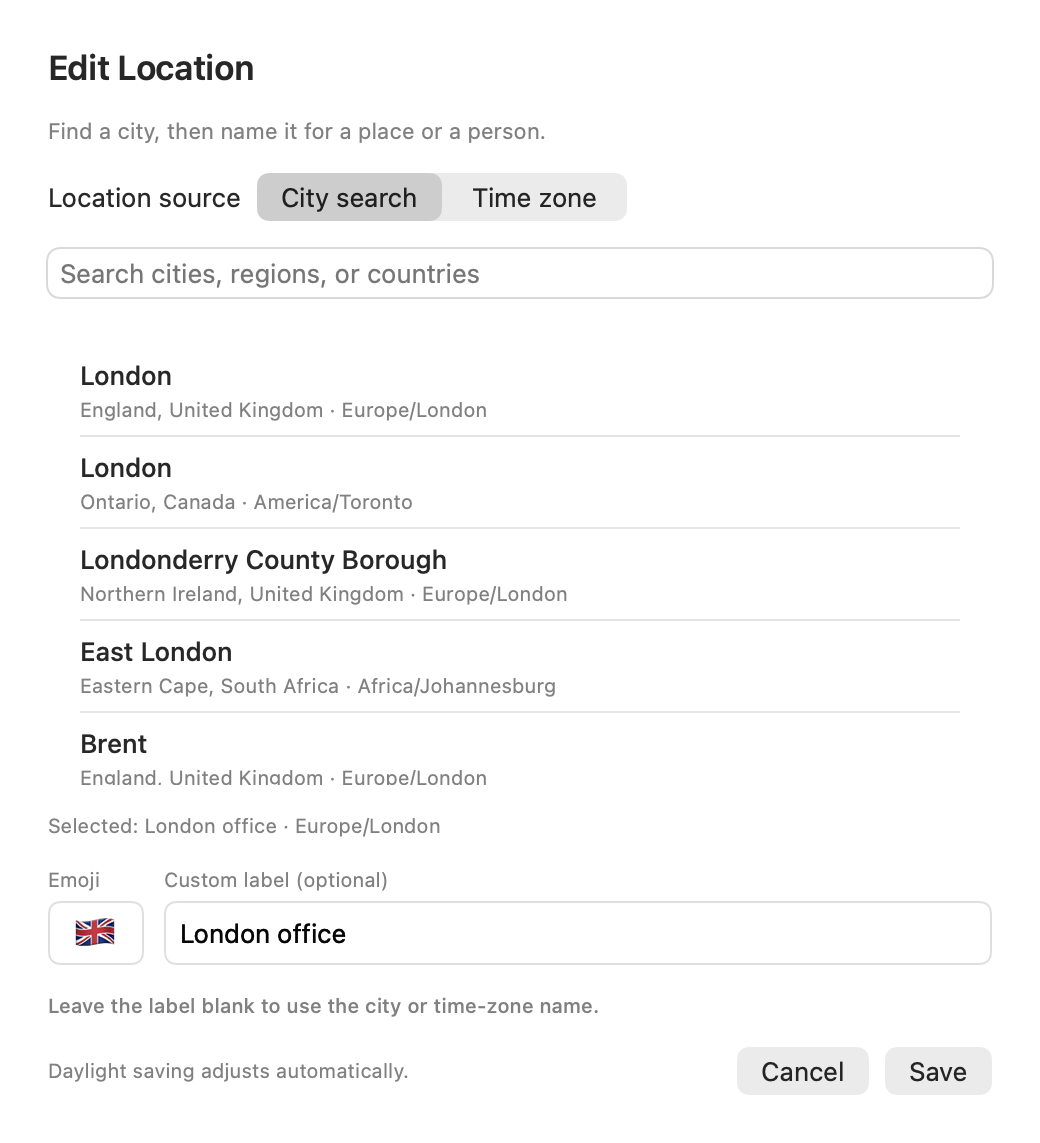
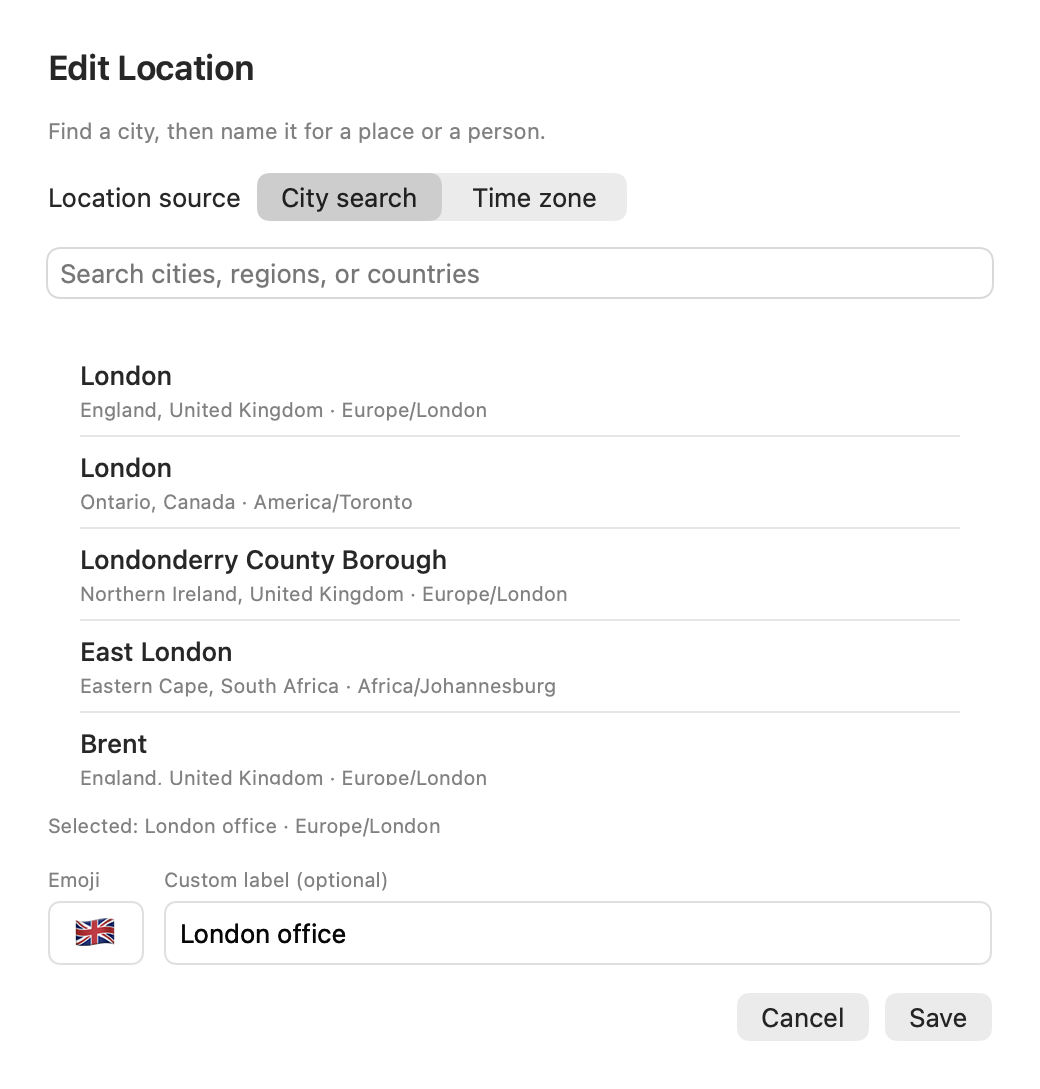
Simplify settings and add About with versioned builds

diff --git a/Horologium/Views/SettingsView.swift b/Horologium/Views/SettingsView.swift
@@ -14,7 +14,7 @@ struct SettingsView: View {
     @State private var loginEnabled = SMAppService.mainApp.status == .enabled
     @State private var loginError: String?
 
-    enum Tab: String, CaseIterable { case general, menuBar, calendar, layout, locations }
+    enum Tab: String, CaseIterable { case general, menuBar, calendar, layout, locations, about }
     @ObservedObject private var navigation: SettingsNavigation
     @State private var selectedSection: DropdownSection?
 
@@ -25,16 +25,13 @@ struct SettingsView: View {
 
     var body: some View {
         VStack(alignment: .leading, spacing: 16) {
-            HStack(spacing: 12) {
-                Image(nsImage: NSImage(contentsOf: Bundle.main.url(forResource: "Logo", withExtension: "png")!)!).resizable().scaledToFit().frame(width: 40, height: 40)
-                Text("Horologium").font(.title2.weight(.semibold))
-            }
             Picker("Settings category", selection: $navigation.tab) {
                 Text("General").tag(Tab.general)
                 Text("Menu Bar").tag(Tab.menuBar)
                 Text("Calendar").tag(Tab.calendar)
                 Text("Layout").tag(Tab.layout)
                 Text("Locations").tag(Tab.locations)
+                Text("About").tag(Tab.about)
             }.pickerStyle(.segmented).labelsHidden()
             Group {
                 switch navigation.tab {
@@ -43,14 +40,10 @@ struct SettingsView: View {
                 case .calendar: calendar
                 case .layout: layout
                 case .locations: locations
+                case .about: about
                 }
             }.frame(maxWidth: .infinity, maxHeight: .infinity)
             if let warning = store.storageWarning { Text(warning).font(.caption).foregroundStyle(.orange) }
-            HStack {
-                Text("Version 1.0").font(.caption).foregroundStyle(.secondary)
-                Spacer()
-                Link("City data: GeoNames", destination: URL(string: "https://www.geonames.org/")!).font(.caption)
-            }
         }
         .padding(24).frame(width: 540, height: 600)
         .background(Color(nsColor: .windowBackgroundColor))
@@ -123,8 +116,7 @@ struct SettingsView: View {
                 Button("Allow in Login Items Settings…") { SMAppService.openSystemSettingsLoginItems() }
             }
             if let loginError { Text(loginError).foregroundStyle(.red).font(.caption) }
-            Text("System follows your Mac’s clock and appearance preferences.").font(.caption).foregroundStyle(.secondary)
-        }.formStyle(.grouped)
+        }.formStyle(.grouped).scrollContentBackground(.hidden)
     }
 
     private var menuBar: some View {
@@ -143,7 +135,7 @@ struct SettingsView: View {
                 Text(store.menuTitle.isEmpty ? "Clock icon" : store.menuTitle)
                     .font(.system(.body, design: .monospaced)).accessibilityLabel("Menu bar preview")
             } header: { Text("Preview") }
-        }.formStyle(.grouped).toggleStyle(.switch)
+        }.formStyle(.grouped).scrollContentBackground(.hidden).toggleStyle(.switch)
     }
 
     private var calendar: some View {
@@ -154,15 +146,16 @@ struct SettingsView: View {
             Picker("Time travel interval", selection: $store.preferences.travelInterval) {
                 ForEach(TravelInterval.allCases) { Text($0.title).tag($0) }
             }
-            Text("System uses your Mac’s first day of the week. Time travel snaps to the chosen interval without tick marks.")
-                .font(.caption).foregroundStyle(.secondary)
-        }.formStyle(.grouped)
+        }.formStyle(.grouped).scrollContentBackground(.hidden)
     }
 
     private var layout: some View {
         VStack(alignment: .leading, spacing: 14) {
-            Text("Dropdown section order").font(.headline)
-            Text("Drag sections, or select one and use the arrows.").font(.caption).foregroundStyle(.secondary)
+            HStack {
+                Text("Dropdown section order").font(.headline)
+                Spacer()
+                Text("Drag to reorder").font(.caption).foregroundStyle(.secondary)
+            }
             List(selection: $selectedSection) {
                 ForEach(store.preferences.sectionOrder) { section in
                     Text(section.title).padding(.vertical, 8).tag(section)
@@ -179,6 +172,23 @@ struct SettingsView: View {
             }
             Spacer()
         }.padding(16)
+    }
+
+    private var about: some View {
+        VStack(spacing: 16) {
+            Spacer()
+            Image(nsImage: NSImage(contentsOf: Bundle.main.url(forResource: "Logo", withExtension: "png")!)!)
+                .resizable().scaledToFit().frame(width: 110, height: 110)
+            Text("Horologium").font(.largeTitle.weight(.semibold))
+            Text("Version \(Bundle.main.object(forInfoDictionaryKey: "CFBundleShortVersionString") as? String ?? "—") (build \(Bundle.main.object(forInfoDictionaryKey: "CFBundleVersion") as? String ?? "—"))")
+                .font(.subheadline).foregroundStyle(.secondary)
+            Text("Ardens").foregroundStyle(.secondary)
+            Link("City data by GeoNames", destination: URL(string: "https://www.geonames.org/")!)
+            Link("Creative Commons Attribution 4.0", destination: URL(string: "https://creativecommons.org/licenses/by/4.0/")!)
+                .font(.caption).foregroundStyle(.secondary)
+            Link("GitHub repository", destination: URL(string: "https://github.com/hirechester/horologium")!)
+            Spacer()
+        }.frame(maxWidth: .infinity).padding(16)
     }
 
     private var sectionIndex: Int? { store.preferences.sectionOrder.firstIndex { $0 == selectedSection } }

diff --git a/HorologiumTests/VisualPreviewTests.swift b/HorologiumTests/VisualPreviewTests.swift
@@ -19,6 +19,11 @@ final class VisualPreviewTests: XCTestCase {
         try render(PopoverView(store: store, openLocations: {}), name: "01-calendar-and-world-clocks", width: 352)
         store.travel(step: 32)
         try render(PopoverView(store: store, openLocations: {}), name: "02-time-travel", width: 352)
+        try render(SettingsView(store: store, initialTab: .about), name: "13-about", width: 540)
+        try render(SettingsView(store: store, initialTab: .about), name: "14-about-dark", width: 540, dark: true)
+        try render(SettingsView(store: store), name: "15-general-dark", width: 540, dark: true)
+        try render(SettingsView(store: store, initialTab: .menuBar), name: "16-menu-bar-dark", width: 540, dark: true)
+        try render(SettingsView(store: store, initialTab: .calendar), name: "17-calendar-dark", width: 540, dark: true)
         try render(SettingsView(store: store), name: "03-settings", width: 540)
         try render(SettingsView(store: store, initialTab: .menuBar), name: "08-menu-bar-settings", width: 540)
         try render(SettingsView(store: store, initialTab: .calendar), name: "09-calendar-settings", width: 540)

diff --git a/Horologium/Views/LocationEditor.swift b/Horologium/Views/LocationEditor.swift
@@ -72,8 +72,6 @@ struct LocationEditor: View {
             if let chosen {
                 Text("Selected: \(chosen.label) · \(chosen.timeZoneDisplayName)")
                     .font(.caption).foregroundStyle(.secondary).lineLimit(1)
-            } else {
-                Text("Choose a result above.").font(.caption).foregroundStyle(.secondary)
             }
             HStack(alignment: .top, spacing: 10) {
                 VStack(alignment: .leading, spacing: 4) {
@@ -96,10 +94,7 @@ struct LocationEditor: View {
                         .accessibilityLabel("Custom location label")
                 }
             }
-            Text("Leave the label blank to use the city or time-zone name.")
-                .font(.caption2).foregroundStyle(.secondary)
             HStack {
-                Text("Daylight saving adjusts automatically.").font(.caption).foregroundStyle(.secondary)
                 Spacer()
                 Button("Cancel") { dismiss() }.keyboardShortcut(.cancelAction)
                 Button(existing == nil ? "Add" : "Save") { save() }

diff --git a/Horologium/Views/EmojiPicker.swift b/Horologium/Views/EmojiPicker.swift
@@ -50,8 +50,6 @@ struct EmojiPicker: View {
                 }
                 .id(category + query)
                 .overlay { if matches.isEmpty { ContentUnavailableView.search(text: query) } }
-                Text("\(matches.count) emoji · Country flags appear first")
-                    .font(.caption2).foregroundStyle(.secondary)
             } else if let error {
                 ContentUnavailableView("Emoji unavailable", systemImage: "exclamationmark.triangle", description: Text(error))
             } else {

diff --git a/scripts/generate-project.py b/scripts/generate-project.py
@@ -4,6 +4,7 @@ import hashlib
 import json
 from pathlib import Path
 root = Path(__file__).resolve().parents[1]
+version = json.loads((root / 'Version.json').read_text())
 objects = {}
 def ident(key): return hashlib.sha1(key.encode()).hexdigest()[:24].upper()
 def add(key, value):
@@ -42,7 +43,7 @@ def configs(key, settings):
         cs.append(add(key+name, obj('XCBuildConfiguration', buildSettings=build, name=name)))
     return add(key+'configs', obj('XCConfigurationList', buildConfigurations=cs, defaultConfigurationIsVisible=0, defaultConfigurationName='Release'))
 project_config = configs('project', {'SDKROOT':'macosx','MACOSX_DEPLOYMENT_TARGET':'26.0','ARCHS':'arm64','SWIFT_VERSION':'6.0','CLANG_ENABLE_MODULES':'YES','ENABLE_TESTABILITY':'YES','CODE_SIGN_STYLE':'Automatic'})
-app_config = configs('app', {'PRODUCT_NAME':'Horologium','PRODUCT_BUNDLE_IDENTIFIER':'app.ardens.horologium','INFOPLIST_FILE':'Horologium/Info.plist','MARKETING_VERSION':'1.0','CURRENT_PROJECT_VERSION':'1','ENABLE_HARDENED_RUNTIME':'YES','LD_RUNPATH_SEARCH_PATHS':'$(inherited) @executable_path/../Frameworks'})
+app_config = configs('app', {'PRODUCT_NAME':'Horologium','PRODUCT_BUNDLE_IDENTIFIER':'app.ardens.horologium','INFOPLIST_FILE':'Horologium/Info.plist','MARKETING_VERSION':version['version'],'CURRENT_PROJECT_VERSION':str(version['build']),'ENABLE_HARDENED_RUNTIME':'YES','LD_RUNPATH_SEARCH_PATHS':'$(inherited) @executable_path/../Frameworks'})
 test_config = configs('test', {'PRODUCT_NAME':'HorologiumTests','PRODUCT_BUNDLE_IDENTIFIER':'app.ardens.horologium.tests','GENERATE_INFOPLIST_FILE':'YES','TEST_HOST':'$(BUILT_PRODUCTS_DIR)/Horologium.app/Contents/MacOS/Horologium','BUNDLE_LOADER':'$(TEST_HOST)','LD_RUNPATH_SEARCH_PATHS':'$(inherited) @executable_path/../Frameworks @loader_path/../Frameworks'})
 app_target = add('app-target', obj('PBXNativeTarget', buildConfigurationList=app_config, buildPhases=app_phases, buildRules=[], dependencies=[], name='Horologium', productName='Horologium', productReference=app_product, productType='com.apple.product-type.application'))
 proxy = add('proxy', obj('PBXContainerItemProxy', containerPortal=ident('project'), proxyType=1, remoteGlobalIDString=app_target, remoteInfo='Horologium'))

diff --git a/scripts/bump-version.py b/scripts/bump-version.py
@@ -1,0 +1,29 @@
+#!/usr/bin/env python3
+"""Bump version and build once per delivered update, then regenerate Xcode settings.
+Usage: python3 scripts/bump-version.py [patch|minor|major] (default: patch).
+Routine rebuilds and tests retain the same version/build pair.
+"""
+import argparse
+import json
+from pathlib import Path
+import subprocess
+import sys
+
+parser = argparse.ArgumentParser(description=__doc__)
+parser.add_argument('part', choices=['patch', 'minor', 'major'], nargs='?', default='patch')
+args = parser.parse_args()
+root = Path(__file__).resolve().parents[1]
+path = root / 'Version.json'
+current = json.loads(path.read_text())
+parts = [int(x) for x in current['version'].split('.')]
+if len(parts) != 3:
+    parser.error('Version.json must contain a major.minor.patch version')
+index = {'major': 0, 'minor': 1, 'patch': 2}[args.part]
+parts[index] += 1
+for i in range(index + 1, 3):
+    parts[i] = 0
+current['version'] = '.'.join(map(str, parts))
+current['build'] += 1
+path.write_text(json.dumps(current, indent=2) + '\n')
+subprocess.run([sys.executable, str(root / 'scripts/generate-project.py')], check=True)
+print(f"Version {current['version']} (build {current['build']})")

diff --git a/README.md b/README.md
@@ -42,6 +42,8 @@ Rendered from the actual SwiftUI views with sample locations (not desktop screen
 
 [Week start and slider intervals](docs/previews/09-calendar-settings.png) · [Locations](docs/previews/11-location-settings.png) · [Reordered dropdown example](docs/previews/12-reordered-sections.png)
 
+[About](docs/previews/13-about.png) · [About in dark mode](docs/previews/14-about-dark.png)
+
 ## Build and run
 
 Open `Horologium.xcodeproj` in Xcode 26 or later, choose the **Horologium** scheme and **My Mac**, then Run. Development does not require a paid Developer Program membership. Use **Sign to Run Locally** if Xcode requests signing configuration.
@@ -66,7 +68,7 @@ Create a local installer for development:
 ./scripts/package.sh --local
 ```
 
-Output: `build/packages/Horologium-1.0-local.pkg`. This contains an ad hoc signed app; the package is **not Developer ID signed or notarized** and is for local development.
+Output: `build/packages/Horologium-1.0.1-build2-local.pkg`. This contains an ad hoc signed app; the package is **not Developer ID signed or notarized** and is for local development.
 
 Once Ardens' Apple Developer Program membership is active:
 
@@ -84,6 +86,18 @@ export NOTARY_PROFILE='Ardens-notary'
 The script builds an arm64 release app, signs it with hardened runtime and a secure timestamp, signs the installer, submits it for notarization, staples the ticket, and verifies the result. The installer places the app in `/Applications`. The bundle and package identifier is **`app.ardens.horologium`**. The test bundle is `app.ardens.horologium.tests`.
 
 Quit an existing Horologium process before installing an updated build, then reopen the app. Automatic updates and App Store distribution are outside this version.
+
+## Versioning
+
+The current version is **1.0.1 (build 2)**. `Version.json` is the source of truth; the Xcode project generator reads it, About reads the built app metadata, and installer filenames include both version and build.
+
+Bump the patch version and build once per delivered change:
+
+```sh
+python3 scripts/bump-version.py
+```
+
+Use `minor` or `major` for larger releases. The script increments the build number and regenerates Xcode settings. Routine rebuilds and test runs keep the current pair. See [CHANGELOG.md](CHANGELOG.md) for delivered changes.
 
 ## Project structure and tests
 

diff --git a/CHANGELOG.md b/CHANGELOG.md
@@ -1,0 +1,13 @@
+# Changelog
+
+## 1.0.1 — Build 2
+
+- Simplified the location editor and emoji picker by removing helper text and the emoji count footer.
+- Matched Layout's “Drag to reorder” treatment to Locations and made settings panel backgrounds consistent.
+- Added About with the app artwork, runtime version/build, GeoNames attribution, and GitHub link.
+- Centralized versioning in Version.json, added a version-bump script, and included version/build in installer filenames.
+
+## 1.0 — Build 1
+
+- Initial native macOS menu bar calendar, offline city search, world clocks, and time travel.
+- Added native emoji and custom location labels, appearance settings, menu bar display options, and section reordering.
